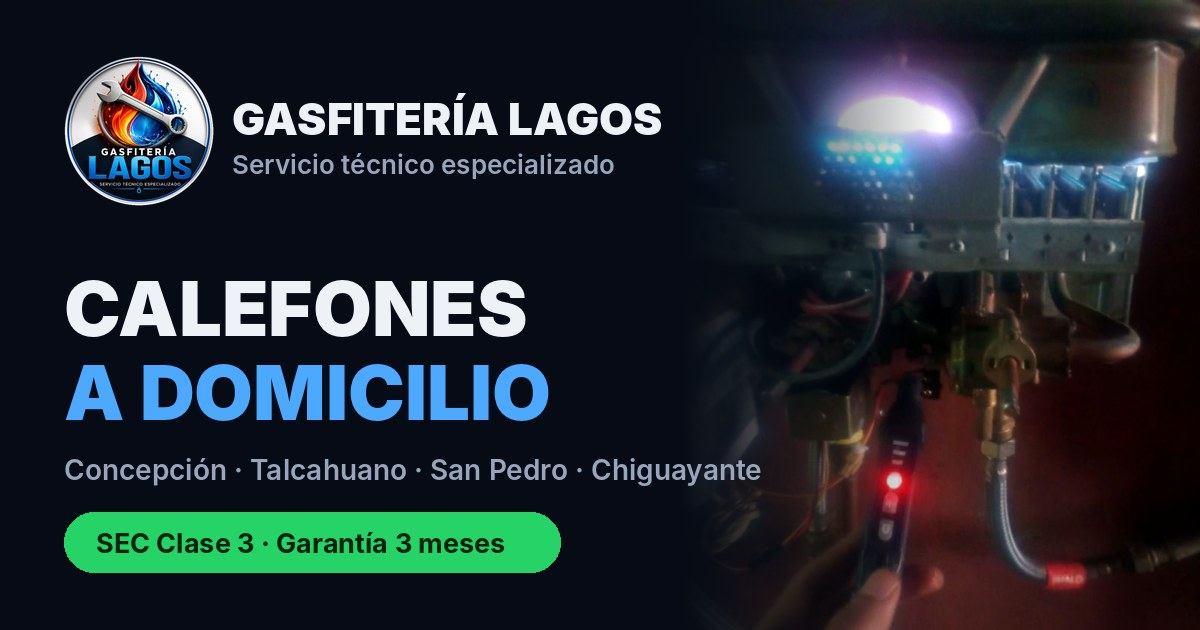
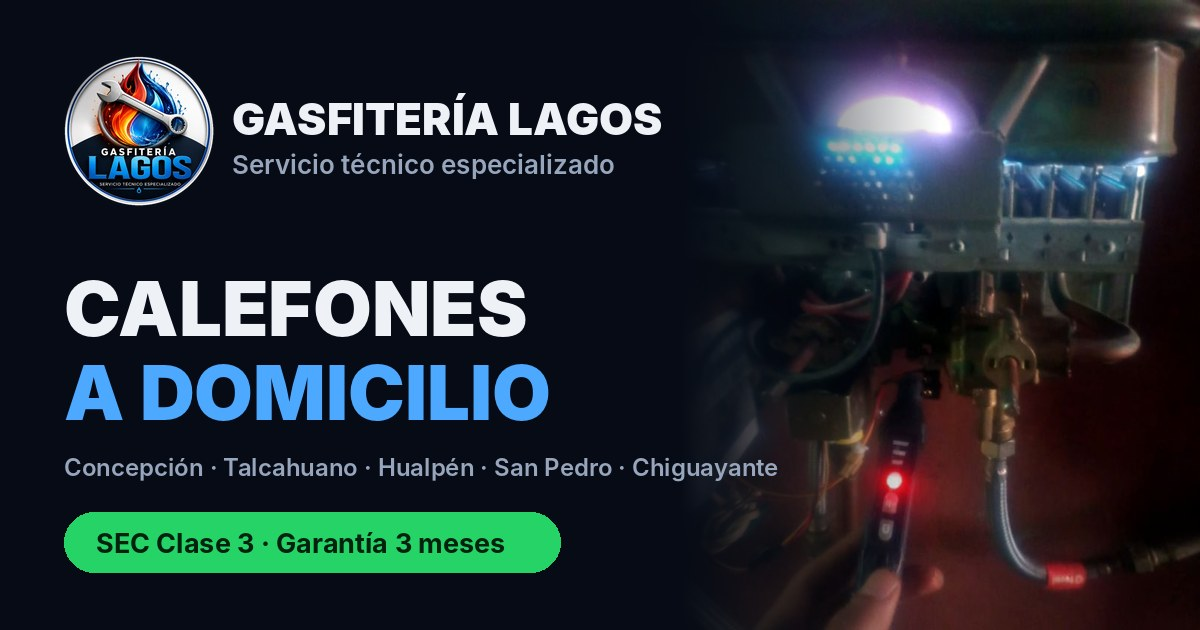
Add files via upload

Changed region(s): [[0.0617, 0.7238, 0.6475, 0.7841]]

diff --git a/index.html b/index.html
@@ -4,7 +4,7 @@
 <meta charset="utf-8">
 <meta name="viewport" content="width=device-width, initial-scale=1, viewport-fit=cover">
 <title>Gasfitería Lagos</title>
-<meta name="description" content="Servicio técnico de calefones a domicilio en Concepción, Talcahuano, San Pedro de la Paz y Chiguayante. Instalador de gas autorizado SEC Clase 3. Garantía escrita de 3 meses.">
+<meta name="description" content="Servicio técnico de calefones a domicilio en Concepción, Talcahuano, Hualpén, San Pedro de la Paz y Chiguayante. Instalador de gas autorizado SEC Clase 3. Garantía escrita de 3 meses.">
 <meta name="theme-color" content="#060B15">
 <!-- Vista previa al compartir el link (WhatsApp, Facebook, Instagram).
      Si tu web queda en otra dirección (por ejemplo www.gasfiterialagos.cl), cambia "https://gasfiterialagos.github.io" en las 3 líneas de abajo. -->
@@ -34,6 +34,7 @@
   "areaServed": [
     {"@type": "City", "name": "Concepción"},
     {"@type": "City", "name": "Talcahuano"},
+    {"@type": "City", "name": "Hualpén"},
     {"@type": "City", "name": "San Pedro de la Paz"},
     {"@type": "City", "name": "Chiguayante"}
   ],
@@ -427,7 +428,7 @@ footer a{color:var(--muted)}
           <span class="chip"><img src="img/sec.png" alt="">Instalador de gas autorizado <b>SEC Clase 3</b></span>
           <span class="chip"><i>3</i>Meses de <b>garantía escrita</b></span>
         </div>
-        <p class="zone fade d4">📍 <b>Concepción</b> · <b>Talcahuano</b> · <b>San Pedro de la Paz</b> · <b>Chiguayante</b> y alrededores</p>
+        <p class="zone fade d4">📍 <b>Concepción</b> · <b>Talcahuano</b> · <b>Hualpén</b> · <b>San Pedro de la Paz</b> · <b>Chiguayante</b> y alrededores</p>
       </div>
       <div>
         <p class="flame-title">Mira la llama de tu calefón</p>
@@ -448,13 +449,6 @@ footer a{color:var(--muted)}
       </div>
     </div>
   </section>
-
-  <div class="marquee" aria-hidden="true">
-    <div class="track">
-      <span>Diagnóstico</span><span>Reparación</span><span>Mantención profunda</span><span>Cambio de calefón</span><span>Tiro natural</span><span>Tiro forzado</span><span>Todas las marcas</span><span>Garantía escrita</span>
-      <span>Diagnóstico</span><span>Reparación</span><span>Mantención profunda</span><span>Cambio de calefón</span><span>Tiro natural</span><span>Tiro forzado</span><span>Todas las marcas</span><span>Garantía escrita</span>
-    </div>
-  </div>
 
   <section id="diagnostico">
     <div class="wrap">
@@ -478,7 +472,7 @@ footer a{color:var(--muted)}
             <div class="rec" data-k="mant"><span>Mantención profunda<small>Tiro natural</small></span><b>$60.000</b></div>
             <div class="rec" data-k="mant"><span>Mantención profunda<small>Tiro forzado</small></span><b>$70.000</b></div>
           </div>
-          <a class="btn btn-wa" id="r-btn" href="https://wa.me/56993992990" target="_blank" rel="noopener"><svg aria-hidden="true"><use href="#wa"/></svg>Enviar por WhatsApp</a>
+          <a class="btn btn-wa" id="r-btn" href="#agendar"><svg aria-hidden="true"><use href="#wa"/></svg>Agendar visita</a>
         </aside>
       </div>
     </div>
@@ -492,6 +486,24 @@ footer a{color:var(--muted)}
         <article class="svc"><span class="code">S·02</span><svg viewBox="0 0 24 24" fill="none" stroke="currentColor" stroke-width="1.6" stroke-linecap="round" stroke-linejoin="round" aria-hidden="true"><path d="M14.7 6.3a4 4 0 0 0-5.4 5.2L3 17.8V21h3.2l6.3-6.3a4 4 0 0 0 5.2-5.4l-2.6 2.6-2.4-.6-.6-2.4z"/></svg><h3>Reparación</h3><p>Membrana, módulo de encendido, válvulas, sensores y más, con repuestos de calidad.</p></article>
         <article class="svc"><span class="code">S·03</span><svg viewBox="0 0 24 24" fill="none" stroke="currentColor" stroke-width="1.6" stroke-linecap="round" aria-hidden="true"><circle cx="12" cy="12" r="3"/><path d="M12 2v3M12 19v3M2 12h3M19 12h3M4.9 4.9l2.1 2.1M17 17l2.1 2.1M4.9 19.1L7 17M17 7l2.1-2.1"/></svg><h3>Mantención</h3><p>Desarme, limpieza profunda, ajuste y pruebas. Recomendada una vez al año.</p></article>
         <article class="svc"><span class="code">S·04</span><svg viewBox="0 0 24 24" fill="none" stroke="currentColor" stroke-width="1.6" stroke-linecap="round" stroke-linejoin="round" aria-hidden="true"><path d="M20 12a8 8 0 0 1-14 5.3M4 12a8 8 0 0 1 14-5.3"/><path d="M18 3v4h-4M6 21v-4h4"/></svg><h3>Cambio de calefón</h3><p>Retiro del equipo antiguo e instalación del nuevo, con conexión segura de gas y agua.</p></article>
+      </div>
+    </div>
+  </section>
+
+  <!-- RESEÑAS reales, tomadas de Facebook (página y comentarios de la publicación del 24-07-2025) -->
+  <section id="resenas">
+    <div class="wrap">
+      <div class="head split rv">
+        <div style="display:flex;flex-direction:column;gap:18px"><span class="label">Reseñas</span><h2>Lo que dicen nuestros clientes</h2></div>
+        <p class="lead">Opiniones reales de clientes en nuestra página de Facebook. <a href="https://www.facebook.com/profile.php?id=61551989211386&amp;sk=reviews" target="_blank" rel="noopener">Ver en Facebook</a></p>
+      </div>
+      <div class="reviews">
+        <article class="review rv"><span class="rec-badge">Recomienda · Facebook</span><p>“Excelente el servicio que entrega. Muy profesional y cuenta con información actualizada. Demuestra dedicación y se toma su tiempo para realizar su trabajo, aparte que explica en detalle los procedimientos. Lo recomiendo con toda seguridad.”</p><footer><b>Vale M.</b></footer><a class="verify" href="https://www.facebook.com/permalink.php?story_fbid=pfbid0y6ueRiqH5sCECebVo4NaFbfKiCfPq7xReTWKjBFDiA5HxMfZcCEcveYz9m366aA2l&amp;id=61551989211386" target="_blank" rel="noopener">Ver recomendación en Facebook ↗</a></article>
+        <article class="review rv"><span class="rec-badge">Recomienda · Facebook</span><p>“Recomiendo con toda seguridad el servicio de mantención que realiza este joven. Lo que cobra está acorde con el trabajo, la dedicación y el tiempo que se toma en toda la actividad. Espero que con el tiempo no se contagie con las malas prácticas que realizan algunos de sus colegas.”</p><footer><b>Erick E.</b> · Mantención</footer><a class="verify" href="https://www.facebook.com/permalink.php?story_fbid=pfbid0y6ueRiqH5sCECebVo4NaFbfKiCfPq7xReTWKjBFDiA5HxMfZcCEcveYz9m366aA2l&amp;id=61551989211386" target="_blank" rel="noopener">Ver recomendación en Facebook ↗</a></article>
+        <article class="review rv"><span class="rec-badge">Recomienda · Facebook</span><p>“Excelente servicio, muy confiable, recomendable.”</p><footer><b>Paola H.</b> · Marzo 2026</footer><a class="verify" href="https://www.facebook.com/profile.php?id=61551989211386&amp;sk=reviews" target="_blank" rel="noopener">Ver recomendación en Facebook ↗</a></article>
+        <article class="review rv"><span class="rec-badge">Recomienda · Facebook</span><p>“Excelente servicio, es un joven muy profesional. 100% recomendable.”</p><footer><b>Anita T.</b></footer><a class="verify" href="https://www.facebook.com/permalink.php?story_fbid=pfbid0y6ueRiqH5sCECebVo4NaFbfKiCfPq7xReTWKjBFDiA5HxMfZcCEcveYz9m366aA2l&amp;id=61551989211386" target="_blank" rel="noopener">Ver recomendación en Facebook ↗</a></article>
+        <article class="review rv"><span class="rec-badge">Recomienda · Facebook</span><p>“Se recomienda. Muy dedicado en su oficio.”</p><footer><b>Virginia R.</b></footer><a class="verify" href="https://www.facebook.com/permalink.php?story_fbid=pfbid0y6ueRiqH5sCECebVo4NaFbfKiCfPq7xReTWKjBFDiA5HxMfZcCEcveYz9m366aA2l&amp;id=61551989211386" target="_blank" rel="noopener">Ver recomendación en Facebook ↗</a></article>
+        <article class="review rv"><span class="rec-badge">Recomienda · Facebook</span><p>“Excelente servicio, lo recomiendo.”</p><footer><b>Carolina M.</b></footer><a class="verify" href="https://www.facebook.com/permalink.php?story_fbid=pfbid0y6ueRiqH5sCECebVo4NaFbfKiCfPq7xReTWKjBFDiA5HxMfZcCEcveYz9m366aA2l&amp;id=61551989211386" target="_blank" rel="noopener">Ver recomendación en Facebook ↗</a></article>
       </div>
     </div>
   </section>
@@ -617,24 +629,6 @@ footer a{color:var(--muted)}
     </div>
   </section>
 
-  <!-- RESEÑAS reales, tomadas de Facebook (página y comentarios de la publicación del 24-07-2025) -->
-  <section id="resenas">
-    <div class="wrap">
-      <div class="head split rv">
-        <div style="display:flex;flex-direction:column;gap:18px"><span class="label">Reseñas</span><h2>Lo que dicen nuestros clientes</h2></div>
-        <p class="lead">Opiniones reales de clientes en nuestra página de Facebook. <a href="https://www.facebook.com/profile.php?id=61551989211386&amp;sk=reviews" target="_blank" rel="noopener">Ver en Facebook</a></p>
-      </div>
-      <div class="reviews">
-        <article class="review rv"><span class="rec-badge">Recomienda · Facebook</span><p>“Excelente el servicio que entrega. Muy profesional y cuenta con información actualizada. Demuestra dedicación y se toma su tiempo para realizar su trabajo, aparte que explica en detalle los procedimientos. Lo recomiendo con toda seguridad.”</p><footer><b>Vale M.</b></footer><a class="verify" href="https://www.facebook.com/permalink.php?story_fbid=pfbid0y6ueRiqH5sCECebVo4NaFbfKiCfPq7xReTWKjBFDiA5HxMfZcCEcveYz9m366aA2l&amp;id=61551989211386" target="_blank" rel="noopener">Ver recomendación en Facebook ↗</a></article>
-        <article class="review rv"><span class="rec-badge">Recomienda · Facebook</span><p>“Recomiendo con toda seguridad el servicio de mantención que realiza este joven. Lo que cobra está acorde con el trabajo, la dedicación y el tiempo que se toma en toda la actividad. Espero que con el tiempo no se contagie con las malas prácticas que realizan algunos de sus colegas.”</p><footer><b>Erick E.</b> · Mantención</footer><a class="verify" href="https://www.facebook.com/permalink.php?story_fbid=pfbid0y6ueRiqH5sCECebVo4NaFbfKiCfPq7xReTWKjBFDiA5HxMfZcCEcveYz9m366aA2l&amp;id=61551989211386" target="_blank" rel="noopener">Ver recomendación en Facebook ↗</a></article>
-        <article class="review rv"><span class="rec-badge">Recomienda · Facebook</span><p>“Excelente servicio, muy confiable, recomendable.”</p><footer><b>Paola H.</b> · Marzo 2026</footer><a class="verify" href="https://www.facebook.com/profile.php?id=61551989211386&amp;sk=reviews" target="_blank" rel="noopener">Ver recomendación en Facebook ↗</a></article>
-        <article class="review rv"><span class="rec-badge">Recomienda · Facebook</span><p>“Excelente servicio, es un joven muy profesional. 100% recomendable.”</p><footer><b>Anita T.</b></footer><a class="verify" href="https://www.facebook.com/permalink.php?story_fbid=pfbid0y6ueRiqH5sCECebVo4NaFbfKiCfPq7xReTWKjBFDiA5HxMfZcCEcveYz9m366aA2l&amp;id=61551989211386" target="_blank" rel="noopener">Ver recomendación en Facebook ↗</a></article>
-        <article class="review rv"><span class="rec-badge">Recomienda · Facebook</span><p>“Se recomienda. Muy dedicado en su oficio.”</p><footer><b>Virginia R.</b></footer><a class="verify" href="https://www.facebook.com/permalink.php?story_fbid=pfbid0y6ueRiqH5sCECebVo4NaFbfKiCfPq7xReTWKjBFDiA5HxMfZcCEcveYz9m366aA2l&amp;id=61551989211386" target="_blank" rel="noopener">Ver recomendación en Facebook ↗</a></article>
-        <article class="review rv"><span class="rec-badge">Recomienda · Facebook</span><p>“Excelente servicio, lo recomiendo.”</p><footer><b>Carolina M.</b></footer><a class="verify" href="https://www.facebook.com/permalink.php?story_fbid=pfbid0y6ueRiqH5sCECebVo4NaFbfKiCfPq7xReTWKjBFDiA5HxMfZcCEcveYz9m366aA2l&amp;id=61551989211386" target="_blank" rel="noopener">Ver recomendación en Facebook ↗</a></article>
-      </div>
-    </div>
-  </section>
-
   <section id="garantia" style="background:var(--bg2);border-block:1px solid var(--line)">
     <div class="wrap war">
       <div class="seal rv">
@@ -694,7 +688,7 @@ footer a{color:var(--muted)}
           <label for="b-com">Comuna <i>*</i></label>
           <select id="b-com">
             <option value="">Elige tu comuna</option>
-            <option>Concepción</option><option>Talcahuano</option><option>San Pedro de la Paz</option><option>Chiguayante</option><option>Otra (alrededores)</option>
+            <option>Concepción</option><option>Talcahuano</option><option>Hualpén</option><option>San Pedro de la Paz</option><option>Chiguayante</option><option>Otra (alrededores)</option>
           </select>
         </div>
         <div class="field">
@@ -731,26 +725,17 @@ footer a{color:var(--muted)}
         <details><summary>¿Por qué mi calefón "explota" al encender?<i aria-hidden="true"></i></summary><p>Normalmente la chispa llega tarde y el gas acumulado se enciende de golpe. Puede ser el módulo de encendido, las bujías o suciedad. No es normal y va dañando el equipo: necesita revisión.</p></details>
         <details><summary>¿La visita de diagnóstico se paga aparte?<i aria-hidden="true"></i></summary><p>La visita cuesta $20.000. Si apruebas la reparación o mantención, se descuenta completa del total. Si es una falla menor sin repuestos, pagas solo el diagnóstico.</p></details>
         <details><summary>¿Cómo sé si es de tiro natural o forzado?<i aria-hidden="true"></i></summary><p>Si al encenderlo escuchas un ventilador, es de tiro forzado. Si no, es de tiro natural. Si tienes dudas, mándanos una foto por WhatsApp y te decimos.</p></details>
-        <details><summary>¿A qué comunas van?<i aria-hidden="true"></i></summary><p>Concepción, Talcahuano, San Pedro de la Paz, Chiguayante y alrededores. Escríbenos tu sector y coordinamos la visita.</p></details>
+        <details><summary>¿A qué comunas van?<i aria-hidden="true"></i></summary><p>Concepción, Talcahuano, Hualpén, San Pedro de la Paz, Chiguayante y alrededores. Escríbenos tu sector y coordinamos la visita.</p></details>
       </div>
     </div>
   </section>
 
-  <section class="final" style="background:var(--bg2);border-top:1px solid var(--line)">
-    <div class="wrap">
-      <span class="label">Agenda tu visita</span>
-      <h2>Vuelve a la<br><span style="color:var(--blue)">llama azul.</span></h2>
-      <p class="lead">Cuéntanos tu sector y envíanos una foto de tu calefón. Te respondemos por WhatsApp.</p>
-      <span class="phone">+56 9 9399 2990</span>
-      <a class="btn btn-wa" data-wa href="https://wa.me/56993992990" target="_blank" rel="noopener"><svg aria-hidden="true"><use href="#wa"/></svg>Escribir por WhatsApp</a>
-    </div>
-  </section>
 </main>
 
 <footer>
   <div class="wrap">
     <span>GASFITERÍA LAGOS · SERVICIO TÉCNICO ESPECIALIZADO · INSTALADOR DE GAS AUTORIZADO SEC CLASE 3</span>
-    <span><a href="https://www.instagram.com/gasfiterialagos" target="_blank" rel="noopener">@gasfiterialagos</a> · Facebook: Gasfitería Lagos</span>
+    <span>WHATSAPP +56 9 9399 2990 · <a href="https://www.instagram.com/gasfiterialagos" target="_blank" rel="noopener">@gasfiterialagos</a> · Facebook: Gasfitería Lagos</span>
   </div>
 </footer>
 
@@ -873,13 +858,17 @@ footer a{color:var(--muted)}
       r.classList.toggle("on", r.dataset.k === recK);
       r.classList.toggle("off", !!recK && r.dataset.k !== recK);
     });
-    var msg = sel.length
-      ? "Hola, quiero agendar una visita. Mi calefón:\n" + sel.map(function(s){ return "• " + s.t; }).join("\n") + "\nMi sector es: "
-      : DEFAULT_MSG;
-    el("r-btn").href = WA + encodeURIComponent(msg);
-    el("r-btn").lastChild.textContent = sel.length ? "Enviar " + sel.length + (sel.length>1?" síntomas":" síntoma") + " por WhatsApp" : "Enviar por WhatsApp";
+    el("r-btn").lastChild.textContent = sel.length ? "Agendar con " + (sel.length>1? "estos síntomas" : "este síntoma") : "Agendar visita";
+    window.__diag = {sel: sel, lvl: lvl};
   }
   box.addEventListener("change", update); update();
+  // lleva los síntomas marcados al formulario de agendamiento
+  el("r-btn").addEventListener("click", function(){
+    var d = window.__diag || {sel: [], lvl: 0}; if (!d.sel.length) return;
+    var radio = el(d.lvl === 1 ? "svc2" : "svc1"); if (radio) radio.checked = true;
+    var note = el("b-note"); if (note) note.value = d.sel.map(function(s){ return s.t; }).join(", ");
+    var f = el("book"); if (f) f.dispatchEvent(new Event("input", {bubbles: true}));
+  });
 
   // ---------- llama azul (canvas) ----------
   var cv = document.getElementById("flame"), ctx = cv.getContext("2d");
